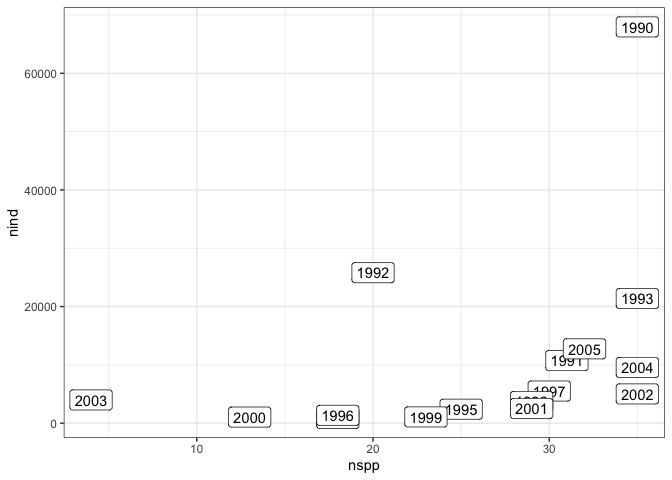
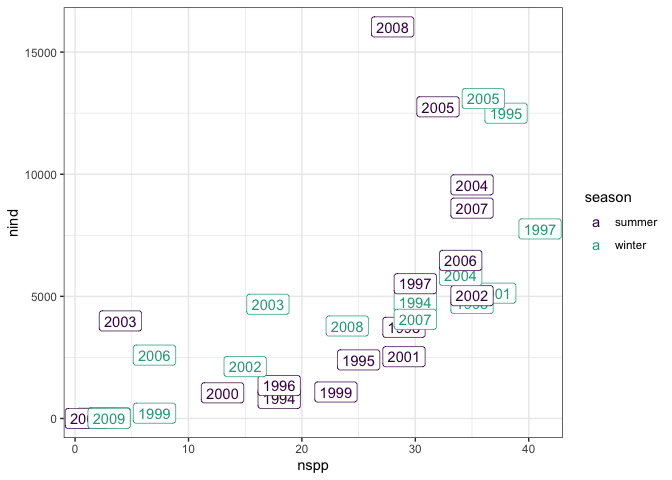
shrink n and s

diff --git a/analysis/reports/statevars.md b/analysis/reports/statevars.md
@@ -12,11 +12,34 @@ all_dat <- all_dat %>%
             nind = sum(abund)) %>%
   ungroup()
   
-statevar_plot <- ggplot(data = all_dat, aes(x = nspp, y = nind, label = year)) +
+statevar_plot <- ggplot(data = all_dat, aes(x = nspp, y = nind, label = year, color = season)) +
   geom_label() +
-  theme_bw()
+  theme_bw() +
+  scale_color_viridis_d(end = .6)
 
 statevar_plot
 ```
 
 ![](statevars_files/figure-markdown_github/load%20stuff-1.png)
+
+``` r
+small_years <- all_dat %>%
+  filter(nspp <= 25,
+         nind <= 10000) %>%
+  group_by(year) %>%
+  summarize(nb_seasons = n()) %>%
+  ungroup() %>%
+  filter(nb_seasons == 2)
+
+small_years_dat <- all_dat %>%
+  filter(year %in% small_years$year)
+
+small_statevar_plot <- ggplot(data = small_years_dat, aes(x = nspp, y = nind, label = year, color = season)) +
+  geom_label() +
+  theme_bw() +
+  scale_color_viridis_d(end = .6)
+
+small_statevar_plot
+```
+
+![](statevars_files/figure-markdown_github/get%20smaller%20years-1.png)
